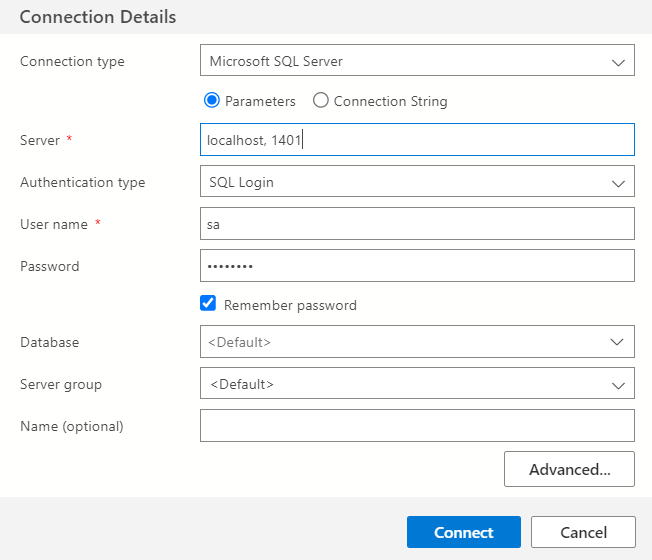
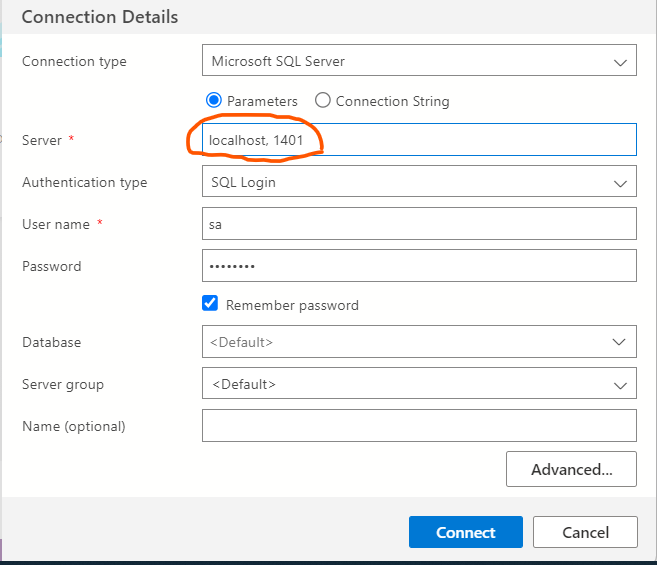
modified:   connectiondetails.png

diff --git a/README.md b/README.md
@@ -34,8 +34,8 @@ Start a new terminal and enter the command below to reset your Azure SQL Edge co
 ```
 
 ### For connecting to your Azure SQL Edge Server
-Please remember to modify the __Server__ field as the 
-![Connection Details](https://github.com/henrrrychau/autoscript-dabe_hkbu/blob/main/azure%20data%20studio%20parameters.png?raw=true)
+Please remember to modify the __Server__ field as below
+![Connection Details](https://github.com/henrrrychau/autoscript-dabe_hkbu/blob/main/connectiondetails.png?raw=true)
 
 ### For restoring AdventureWorks****.bak
 Download your own [BAK file](https://learn.microsoft.com/en-us/sql/samples/adventureworks-install-configure?view=sql-server-ver16&tabs=ssms) and refer to [this](https://learn.microsoft.com/en-us/sql/azure-data-studio/tutorial-backup-restore-sql-server?view=sql-server-ver16).
